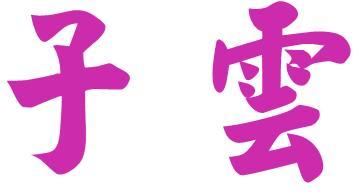
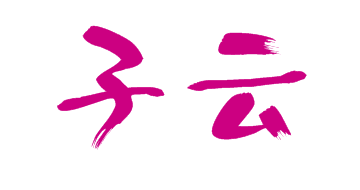
version 0.1

diff --git a/index.html b/index.html
@@ -3,8 +3,8 @@
   <head>
   	<meta charset="utf-8">
     <meta http-equiv="X-UA-Compatible" content="IE=edge">
-    <meta name="author" content="Zoe Xiao">
-    <meta name="description" content="Zoe Xiao's personal website">
+    <meta name="author" content="Ziyun Xiao">
+    <meta name="description" content="Ziyun Xiao's Personal Website">
     <meta name="viewport" content="width=device-width, initial-scale=1">
 
     <title>Violet Clouds</title>
@@ -57,22 +57,26 @@
 			</div>
 		</div>
 		<div class="container">
-      		  <h1>I'm Zoe Xiao</h1>
-		      <p>I was born in Changsha, China.</p>
-		      <p>I lived in Beijing, grow up in Shanghai</p>
-		      <p>I came to USA after high school </p>
-		      <p>I now live in New York, the BIG APPLE!</p>
-		      <p>I love delicious food, enjoy cooking, like holding parties to socializing with friends</p>
-		      <p>I like travelling and exploring new places. I did a cross-country road trip from NY to LA in 2013</p>
-		      <p>I love reading detective stories</p>
-		      <p>I am a good swimmer and trying to be a good skier since it's so cold and snowy anyway.</p>
-		      <p>I take tons of pictures to record my life </p>
-		      <p>I love reading detective stories</p>
-		      <p>I just graduated with my master degreefrom Columbia University, now looking for a job </p>
+      		  <h1>My name is Ziyun Xiao</h1>
+      		  <p>My friends call me Zoe.</p>
+      		  <p>The pronounication of Ziyun in chinese can be interpretted as violet clouds.</p>
+      		  <P>My parents named me that because I was born at violet sunset.</p>
+		      <p>I grow up in Shanghai, the largest modern city in China.</p>
+		      <p>The multiculture experience made me wanna go exploring more!</p>
+		      <p>2009 is a special year for me. </P>
+		      <P>For the first time, </p>
+		      <P>I left home alone, travelled to another continent and started my college life.</p>
+		      <p>Everything was new and exciting! This is my own adventure.</p>
+		      <p>After 4 years amazing college life at RPI, I went to Columbia University to pursue a master degree.</p>
+		      <p>Through out my student life, I developed interests in computer vision and embedded system.</p>
+		      <p>I learned about programming and had so much fun coding to solve problems.</p>
+		      <p>I just graduated and am looking forward to start my career as a programmer </p>
 		      <p>(<a href="resume.html"> check out my resume!</a>)</p>
-		      <p>I am an inspiring Electrical enginneer programms in C++ and enjoy doing web development</p>
-		      <p>I am also interested in computer vision and embedded control.</p>
-		      <p> TO BE CONTINUED </p>
+		      <h3>My hobby</h3>
+		      <p>I like travelling and exploring new places. I did a cross-country road trip from NY to LA in 2013</p>
+		      <p>I enjoys developing beautiful websites</p>
+		      <p>I love reading history books and detective stories</p>
+		      <p>I am a good swimmer and trying to be a good skier since it's so cold and snowy anyway</p>
     	</div>
 	</div>
   </body>

diff --git a/resume.html b/resume.html
@@ -3,9 +3,10 @@
   <head>
   	<meta charset="utf-8">
     <meta http-equiv="X-UA-Compatible" content="IE=edge">
-    <meta name="author" content="Zoe Xiao">
-    <meta name="description" content="Zoe Xiao's resume">
+    <meta name="author" content="Ziyun Xiao">
+    <meta name="description" content="Ziyun Xiao's resume">
     <meta name="viewport" content="width=device-width, initial-scale=1">
+    <title>Ziyun Xiao - Engineer and C++ Programmer</title>
     <!-- jQuery-UI core CSS -->
     <link href="./css/jquery/jquery-ui.min.css" rel="stylesheet">
   	<!-- Bootstrap core CSS -->
@@ -29,7 +30,6 @@
     });
 
 </script>
-  <title>Violet Clouds</title>	
   </head>
   <body data-spy="scroll" data-target="#myScrollspy">
 	<nav class="navbar navbar-default" id="navbar-example" role="navigation">
@@ -118,8 +118,8 @@
 			<p class="lead"> MixSpot LLC </p>
 			
 			<ul>
-				<li>Designed social media website using Bootstrap frame along with HTML, CSS and jQuery for PC, phone and tablet platforms to maximize user experience and website traffic</li>
-				<li>Advised Founder of MixSpot (a start up company) on website designs and layout optimization</li>
+				<li>Researched 50+ top websites and designed content website using Bootstrap frame along with HTML, CSS and jQuery for PC, phone and tablet platforms to maximize user experience and website traffic</li>
+				<li>Advised Founder of MixSpot (a tech startup) on website designs and layout optimization</li>
 				<li>Organized meetings with three other teammates to collaborate as well as troubleshoot</li>
 			</ul>
 		</div>
@@ -136,7 +136,7 @@
 			<ul>
 				<li>Managed team of 6 engineers via pair programming for agile software development and objective deadline management</li>
 				<li>Developed automated regression test suite (C++) consisting of 3050 lines using QtCreator to maintain New Optical Measurement System (NOMS)</li>
-				<li>Optimized measurement accuracy of NOMS by researching gradient operators</li>
+				<li>Increased measurement accuracy of NOMS up to 1E-05 inches by researching gradient operators</li>
 			</ul>
 		</div>
 		</div>

diff --git a/css/style.css b/css/style.css
@@ -74,8 +74,8 @@ a.side-bar{
 }
 
 div#profile{
-	background: no-repeat right url("./img/profile2.png") black;
-	background-size: 50vh;
+	background: no-repeat right url("./img/figure.png") black;
+	background-size: 60vh;
 	padding-bottom: 100px;
 }
 /********************************/
